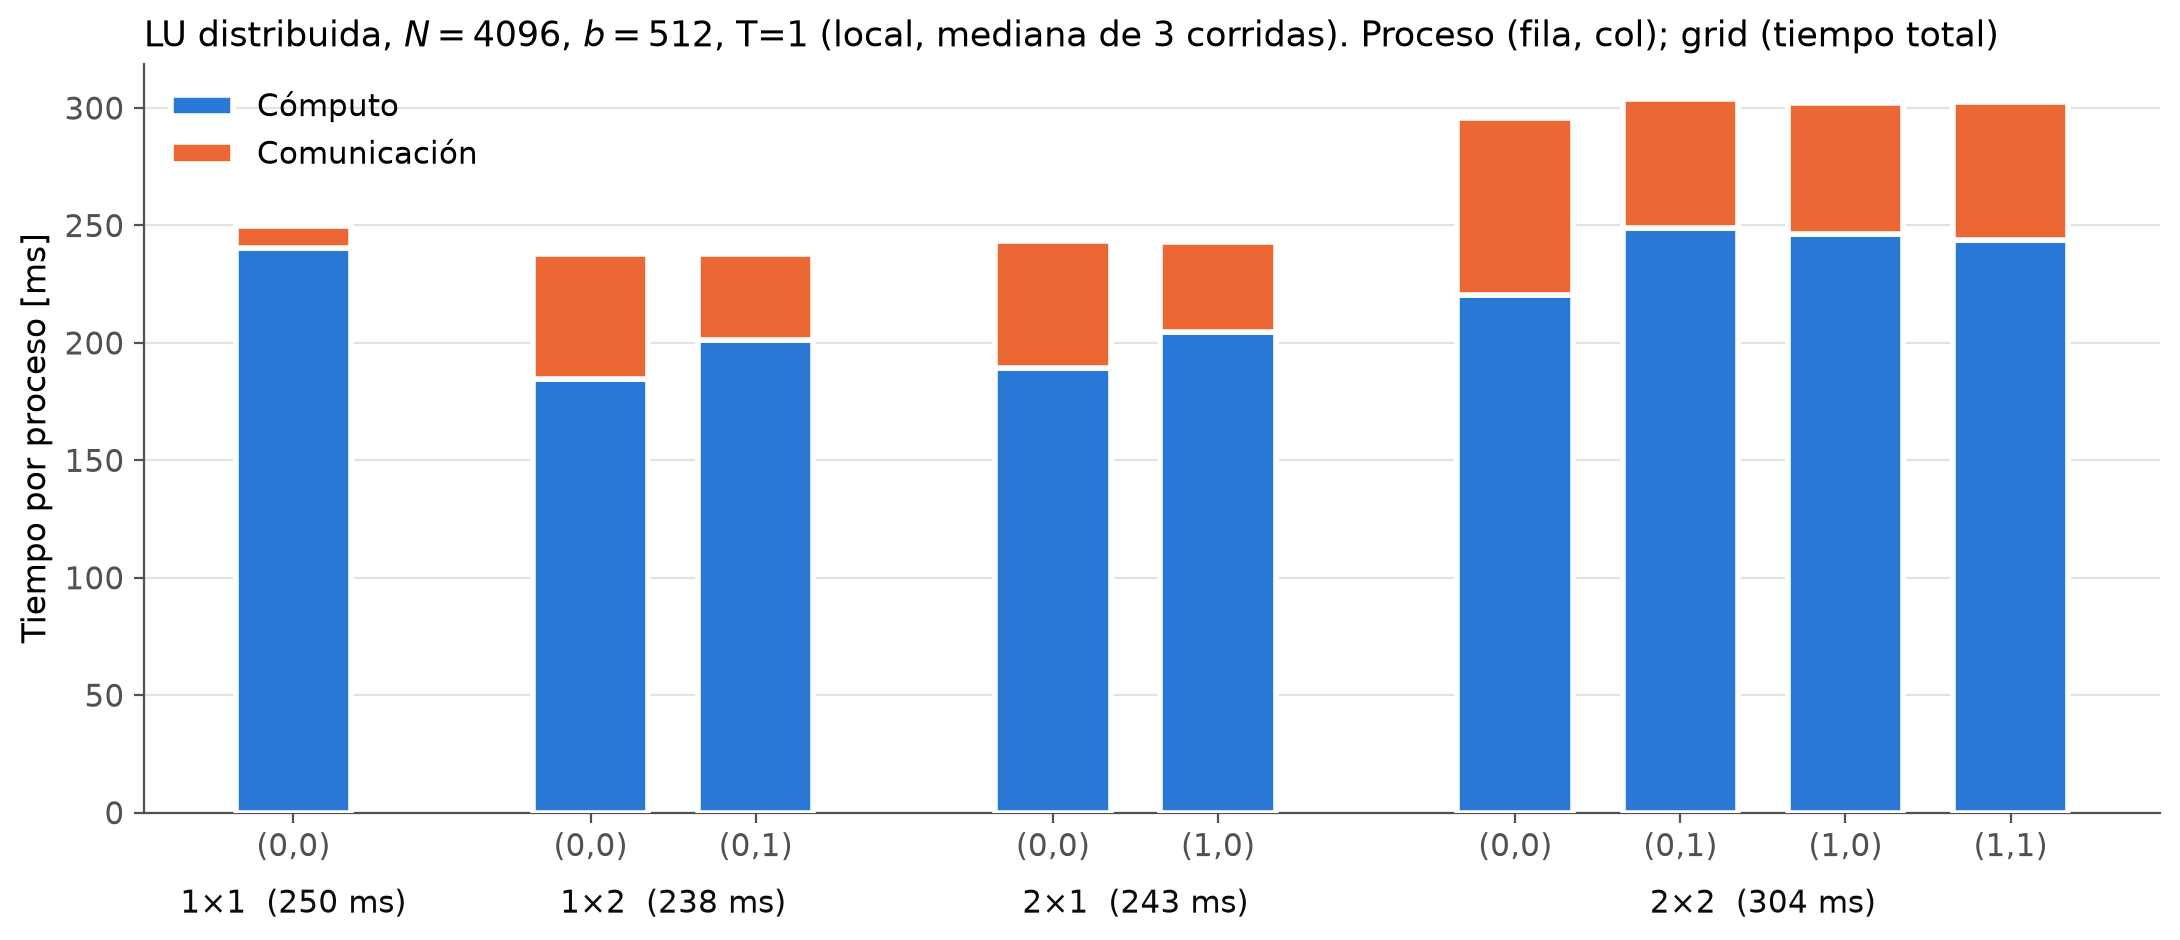
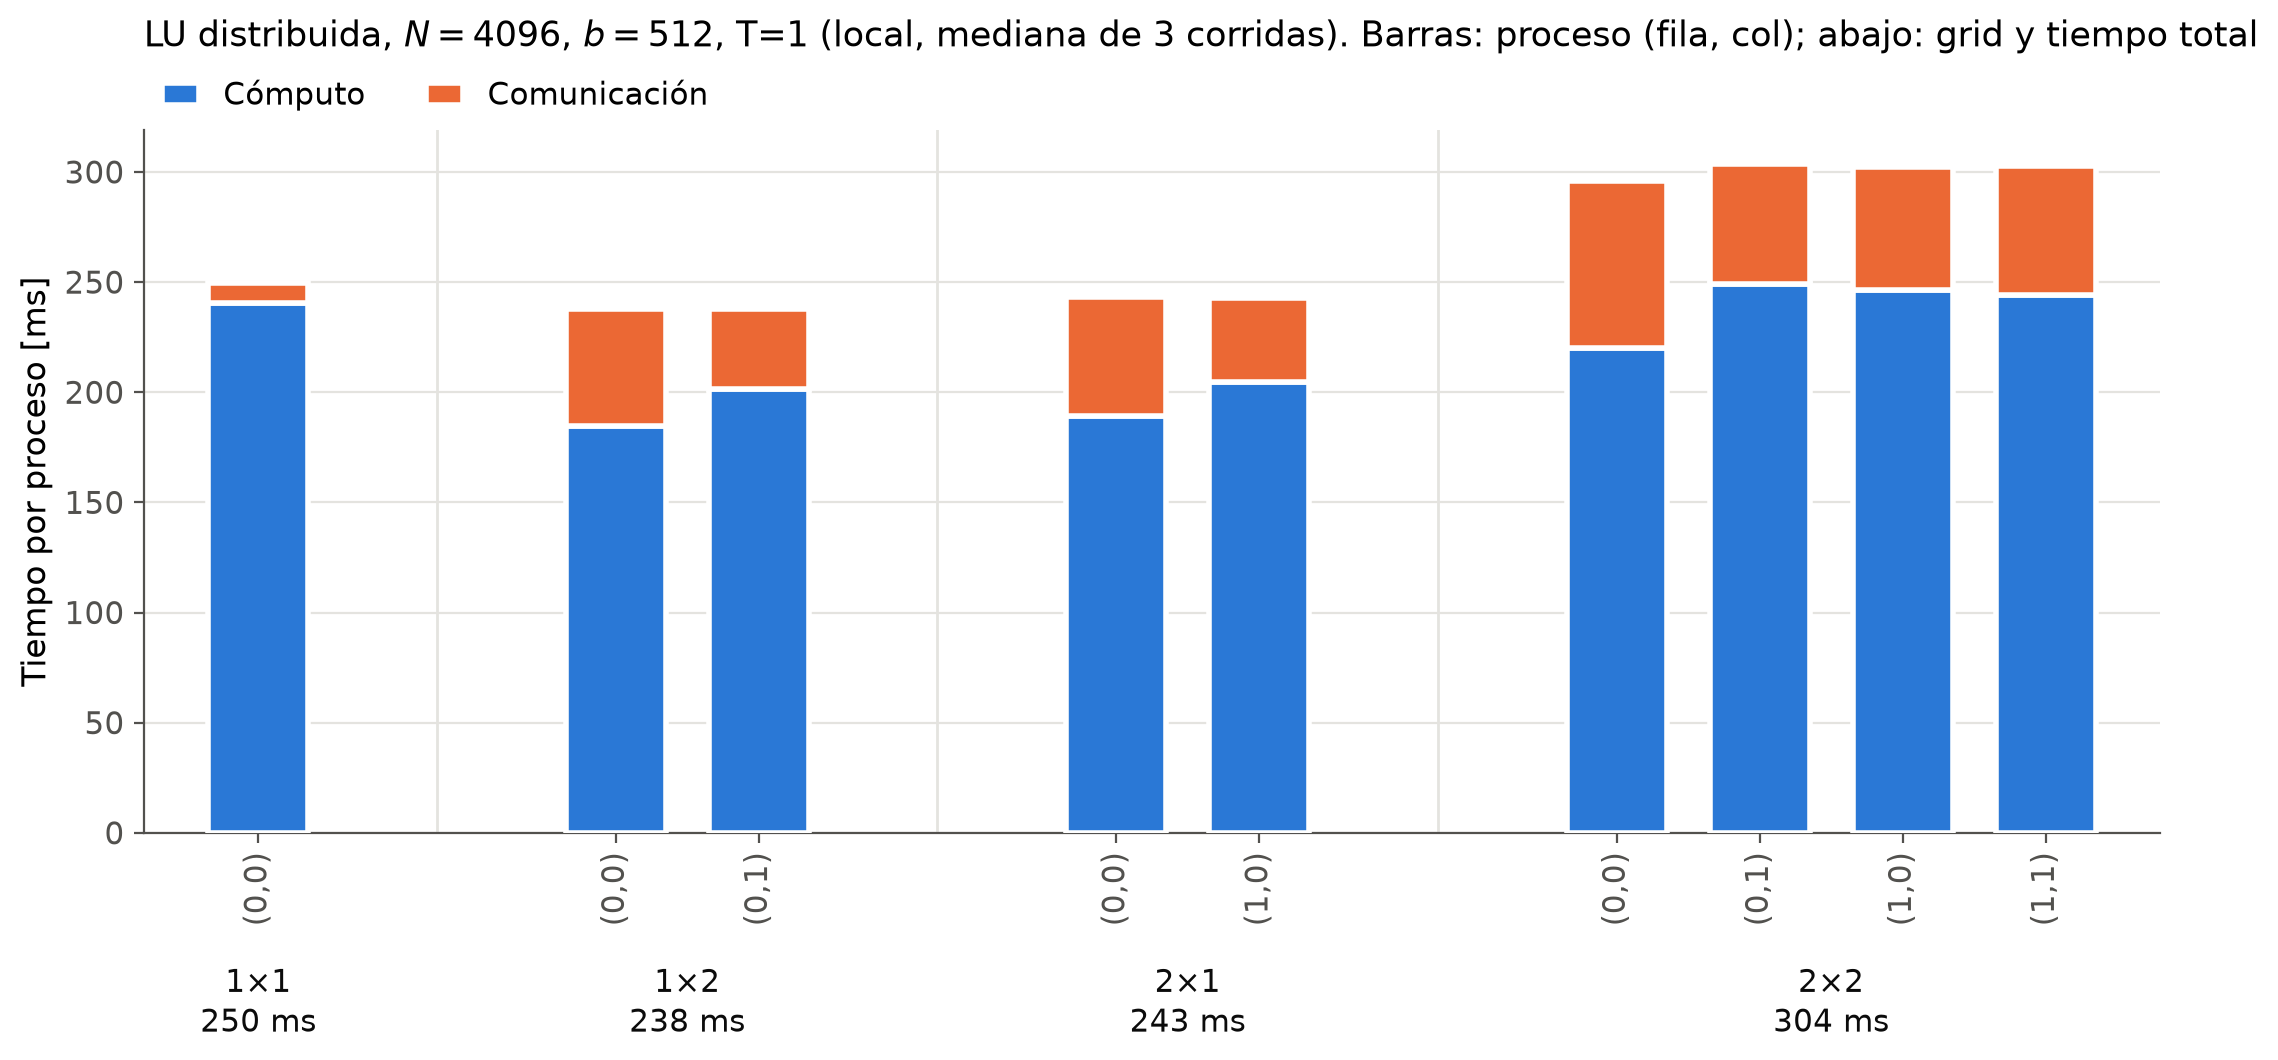
fix figuras inciso b

diff --git a/plot_b.py b/plot_b.py
@@ -118,8 +118,10 @@ def plot_times(rows):
         if g not in grids:
             grids.append(g)
 
-    fig, ax = plt.subplots(figsize=(11, 4.8))
-    x, ticks, labels, centers = 0.0, [], [], []
+    nbars = len(rows)
+    gap = 1.5  # espacio entre grupos (en anchos de barra)
+    fig, ax = plt.subplots(figsize=(max(11, 0.45 * nbars + 3), 5.4))
+    x, ticks, labels, centers, bounds = 0.0, [], [], [], []
     for g in grids:
         rs = [r for r in rows if (r["pr"], r["pc"]) == g]
         xs = x + np.arange(len(rs))
@@ -131,15 +133,21 @@ def plot_times(rows):
                linewidth=2, label="Comunicación" if g == grids[0] else None, zorder=3)
         ticks += list(xs)
         labels += [f"({r['myrow']},{r['mycol']})" for r in rs]
-        centers.append((xs.mean(), f"{g[0]}×{g[1]}  ({rs[0]['t_wall'] * 1e3:.0f} ms)"))
-        x = xs[-1] + 1.8
+        centers.append((xs.mean(), f"{g[0]}×{g[1]}\n{rs[0]['t_wall'] * 1e3:.0f} ms"))
+        bounds.append(xs[-1] + (gap + 1) / 2)
+        x = xs[-1] + gap + 1
 
+    ax.set_xlim(-0.8, ticks[-1] + 0.8)
     ax.set_xticks(ticks)
-    ax.set_xticklabels(labels, fontsize=10)
+    ax.set_xticklabels(labels, fontsize=9.5, rotation=90)
+    # Separadores tenues entre grids.
+    for xb in bounds[:-1]:
+        ax.axvline(xb, color=GRID, linewidth=1, zorder=1)
+    # Nombre del grid y tiempo total, bajo las etiquetas (fila, col) verticales.
     for cx, txt in centers:
         ax.annotate(txt, (cx, 0), xycoords=("data", "axes fraction"),
-                    xytext=(0, -36), textcoords="offset points", ha="center",
-                    fontsize=11, color="#0b0b0b")
+                    xytext=(0, -46), textcoords="offset points", ha="center", va="top",
+                    fontsize=11, color="#0b0b0b", linespacing=1.3)
     ax.set_ylabel("Tiempo por proceso [ms]", fontsize=12)
     ax.grid(True, axis="y", color=GRID, linewidth=0.8)
     ax.set_axisbelow(True)
@@ -148,12 +156,14 @@ def plot_times(rows):
     for s in ("left", "bottom"):
         ax.spines[s].set_color(INK)
     ax.tick_params(colors=INK, labelsize=11)
-    ax.legend(frameon=False, fontsize=11, loc="upper left")
+    # Leyenda arriba, fuera del area de las barras.
+    ax.legend(frameon=False, fontsize=11, loc="lower left", ncol=2,
+              bbox_to_anchor=(0, 1.0), borderaxespad=0.2, handlelength=1.2)
     r0 = rows[0]
     ax.set_title(f"LU distribuida, $N={r0['N']}$, $b={r0['b']}$, T={r0['T']} "
                  f"({LABEL}, mediana de {r0['reps']} corridas). "
-                 "Proceso (fila, col); grid (tiempo total)",
-                 fontsize=12.5, loc="left")
+                 "Barras: proceso (fila, col); abajo: grid y tiempo total",
+                 fontsize=12.5, loc="left", pad=30)
     fig.tight_layout()
     FIG.mkdir(exist_ok=True)
     name = "b_times" if LABEL == "local" else f"b_times_{LABEL}"
